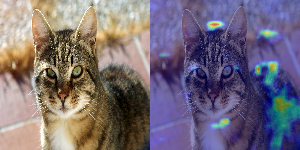
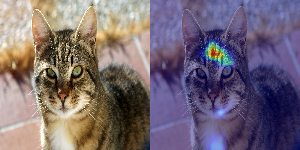
Strip regularizers from TF.js export + refresh Grad-CAM heatmaps
Keras 3 serializes regularizers as class_name "L2" / "L1", but
@tensorflow/tfjs's registry expects lowercase "l2" / "l1", so
tf.loadLayersModel() fails with "Unknown regularizer: L2" on models
trained with kernel_regularizer=regularizers.l2(...). Regularizers
contribute only to the training loss and are a no-op at inference, so
drop them from the exported topology rather than renaming.

Heatmaps refreshed on the new 390k-param GAP+BN model: cat2.jpg's
attention is now on the cat (body and paws) rather than the background
plants, matching its flipped prediction (raw 0.744 Dog -> 0.204 Cat).

diff --git a/src/convert_to_tfjs.py b/src/convert_to_tfjs.py
@@ -57,6 +57,14 @@ def build_tfjs_topology(model):
 
         cfg.pop("quantization_config", None)
 
+        # Regularizers contribute only to the training loss; at inference they
+        # are a no-op. Keras 3 serializes them as class_name "L2" / "L1" while
+        # @tensorflow/tfjs's registry expects lowercase "l2" / "l1". Stripping
+        # them entirely sidesteps the naming mismatch and keeps the exported
+        # model pure inference.
+        for reg_key in ("kernel_regularizer", "bias_regularizer", "activity_regularizer"):
+            cfg.pop(reg_key, None)
+
         if ltype == "InputLayer":
             continue
 
